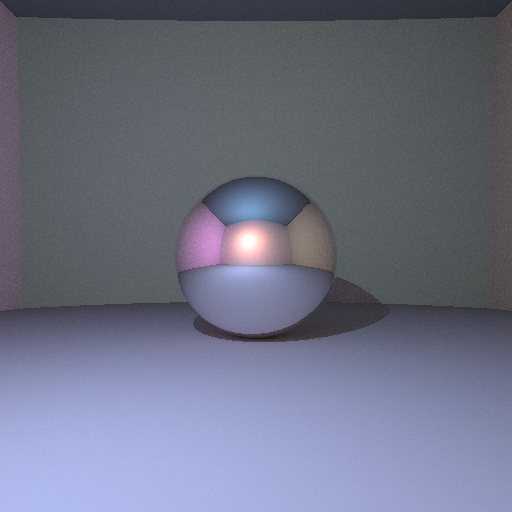
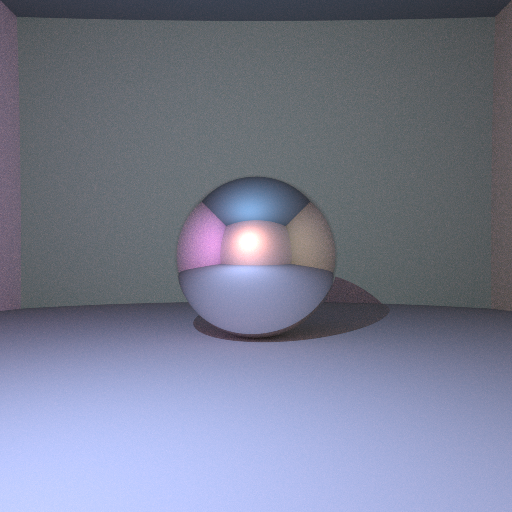
Added antialiasing

Changed region(s): [[0.0, 0.7812, 0.6875, 1.0], [0.3438, 0.4062, 0.5312, 0.5625], [0.0625, 0.9688, 0.0938, 1.0]]

diff --git a/Vector.cpp b/Vector.cpp
@@ -10,7 +10,7 @@
 #define STB_IMAGE_IMPLEMENTATION
 #include "stb_image.h"
 
-std::default_random_engine gen;
+std::default_random_engine engine;
 std::uniform_real_distribution<double> unif(0.0, 1.0);
 
 Vector::Vector(double x = 0, double y = 0, double z = 0) {
@@ -116,7 +116,7 @@ Scene::Scene(){
 	this->arr.emplace_back(Vector(0,1000,0), 940, Vector(0.2, 0.5, 0.9));
 	this->arr.emplace_back(Vector(0,-1000,0), 990, Vector(0.3, 0.4, 0.7));
 	this->arr.emplace_back(Vector(0,0,1000), 940,  Vector(0.9, 0.4, 0.3));
-	this->lights.emplace_back(Light(Vector(-10,20,40), 8*pow(10,9)));
+	this->lights.emplace_back(Light(Vector(-10,20,40), 1*pow(10,10)));
 }
 
 
@@ -156,6 +156,7 @@ Vector Scene::get_colour(Ray& ray, int max_reflection) const {
 		return this->get_colour(mirror_ray, max_reflection);
 	}
 
+	// Check for shadow
 	bool shadow = false;
 	for (auto s : this->arr) {
 		struct Intersection tmp = s.intersect(r);
@@ -187,8 +188,8 @@ Vector random_vector(Vector& normal){
 
 	// Sample Random Direction
 		// Compute x, y, z
-		double r1 = unif(gen);
-		double r2 = unif(gen);
+		double r1 = unif(engine);
+		double r2 = unif(engine);
 
 		double x = cos(2*M_PI*r1)*sqrt(1-r2);
 		double y = sin(2*M_PI*r1)*sqrt(1-r2);
@@ -219,20 +220,25 @@ int main() {
 	int H = 512;
 	double alpha = 60*M_PI / 180;
 	Vector camera = Vector(0,0,55);
-	int max_reflection = 10;
+	int max_reflection = 7;
 	std::vector<unsigned char> image(W * H * 3, 0);
 	Scene scene = Scene();
 
 	#pragma omp parallel for schedule(dynamic, 1)
 	for (int i = 0; i < H; i++) {
+		// int tid = omp_get_thread_num();
 		for (int j = 0; j < W; j++) {
-			Vector dir = Vector(j - W/2 +0.5, H/2 - i - 0.5, (-W/(2.*tan(alpha/2))));
-			dir.normalize();
-			Ray r = Ray(camera,  dir);
-
 			Vector colour = Vector();
 			int N = 100;
 			for (int n = 0; n < N; n++) {
+				double r1 = unif(engine);
+				double r2 = unif(engine);
+				double x1 = sqrt(-2*log(r1))*cos(2.*M_PI*r2) * 0.25; // Standard deviation is 0.25
+				double x2 = sqrt(-2*log(r1))*sin(2.*M_PI*r2) * 0.25;
+
+				Vector dir = Vector(j - W/2 +0.5 +x1, H/2 - i - 0.5 +x2, (-W/(2.*tan(alpha/2))));
+				dir.normalize();
+				Ray r = Ray(camera,  dir);
 				colour = colour + scene.get_colour(r, max_reflection);
 			}
 			colour = colour/N;
